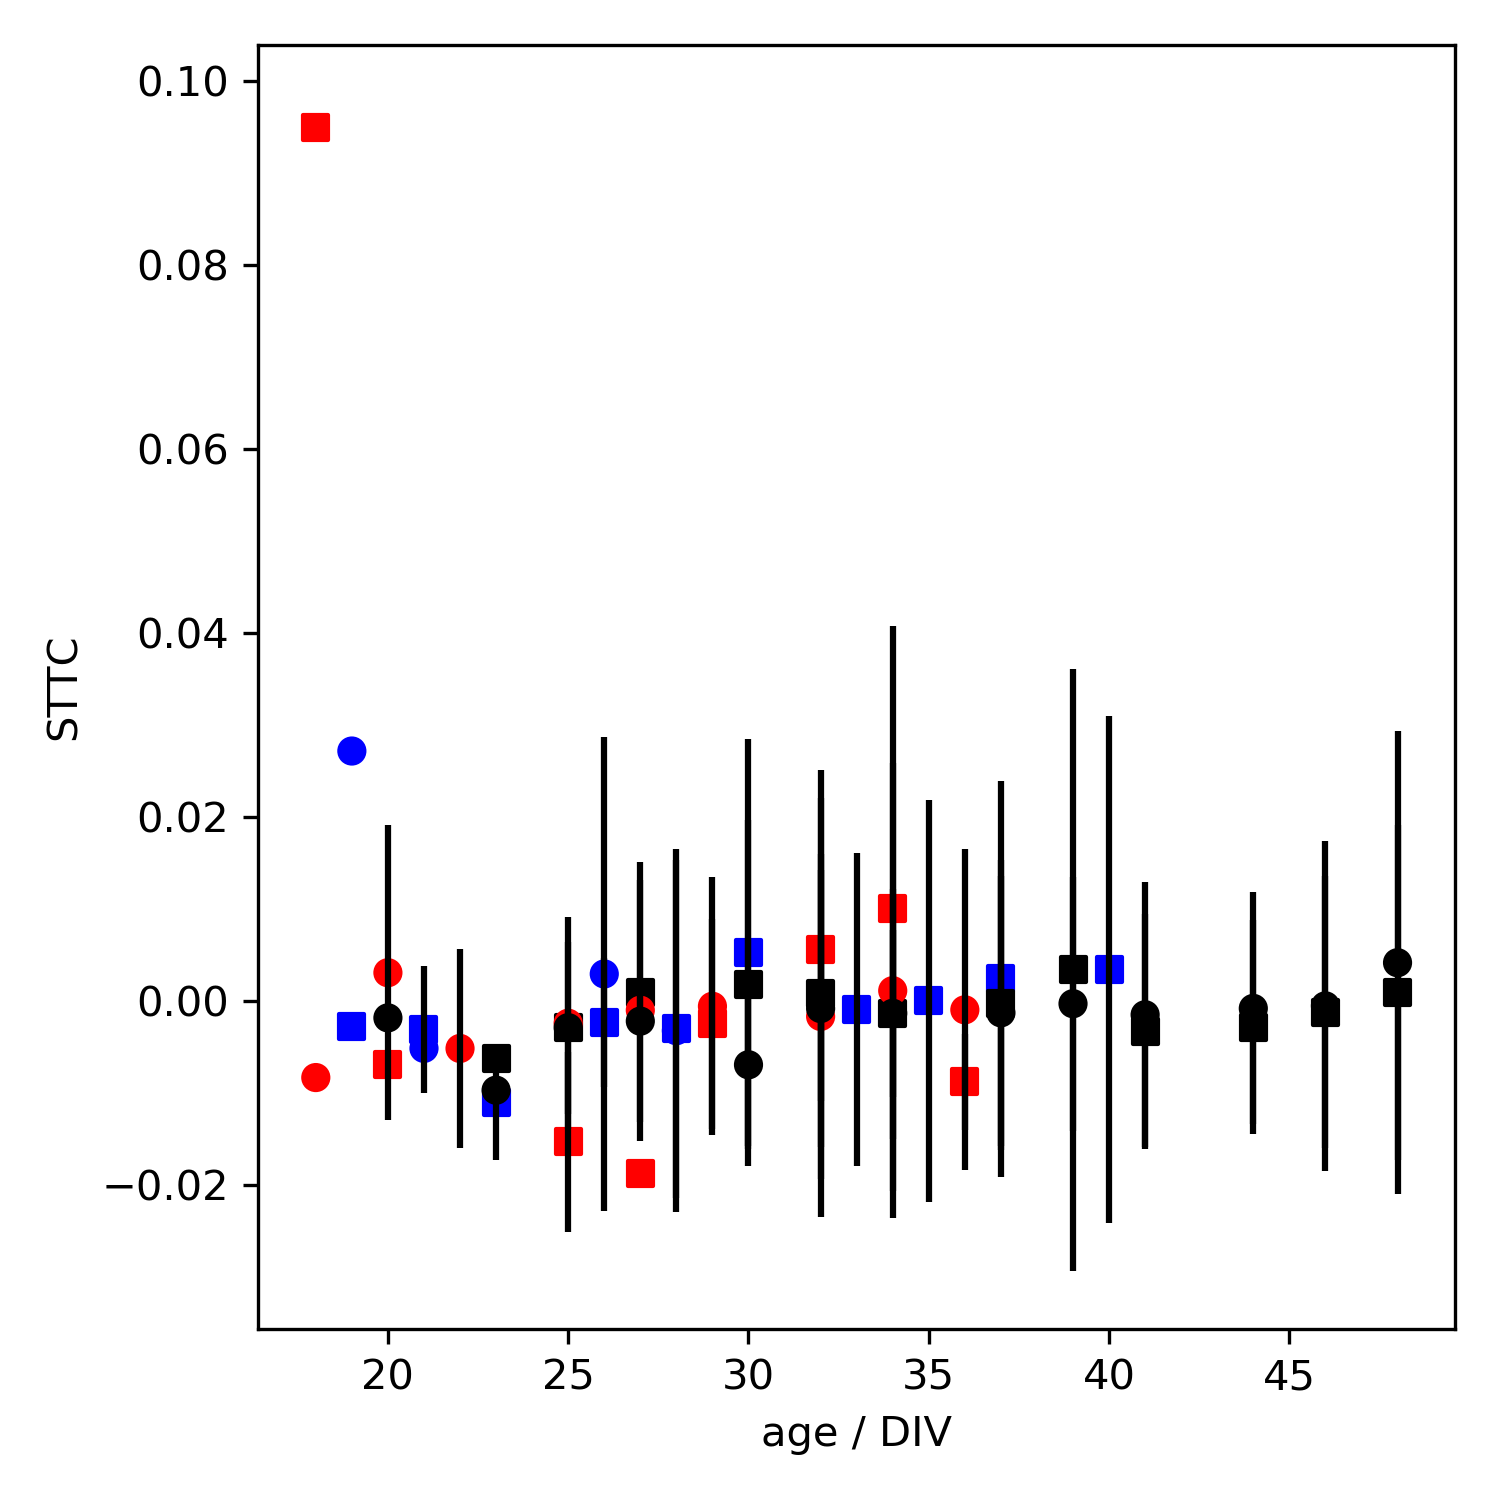
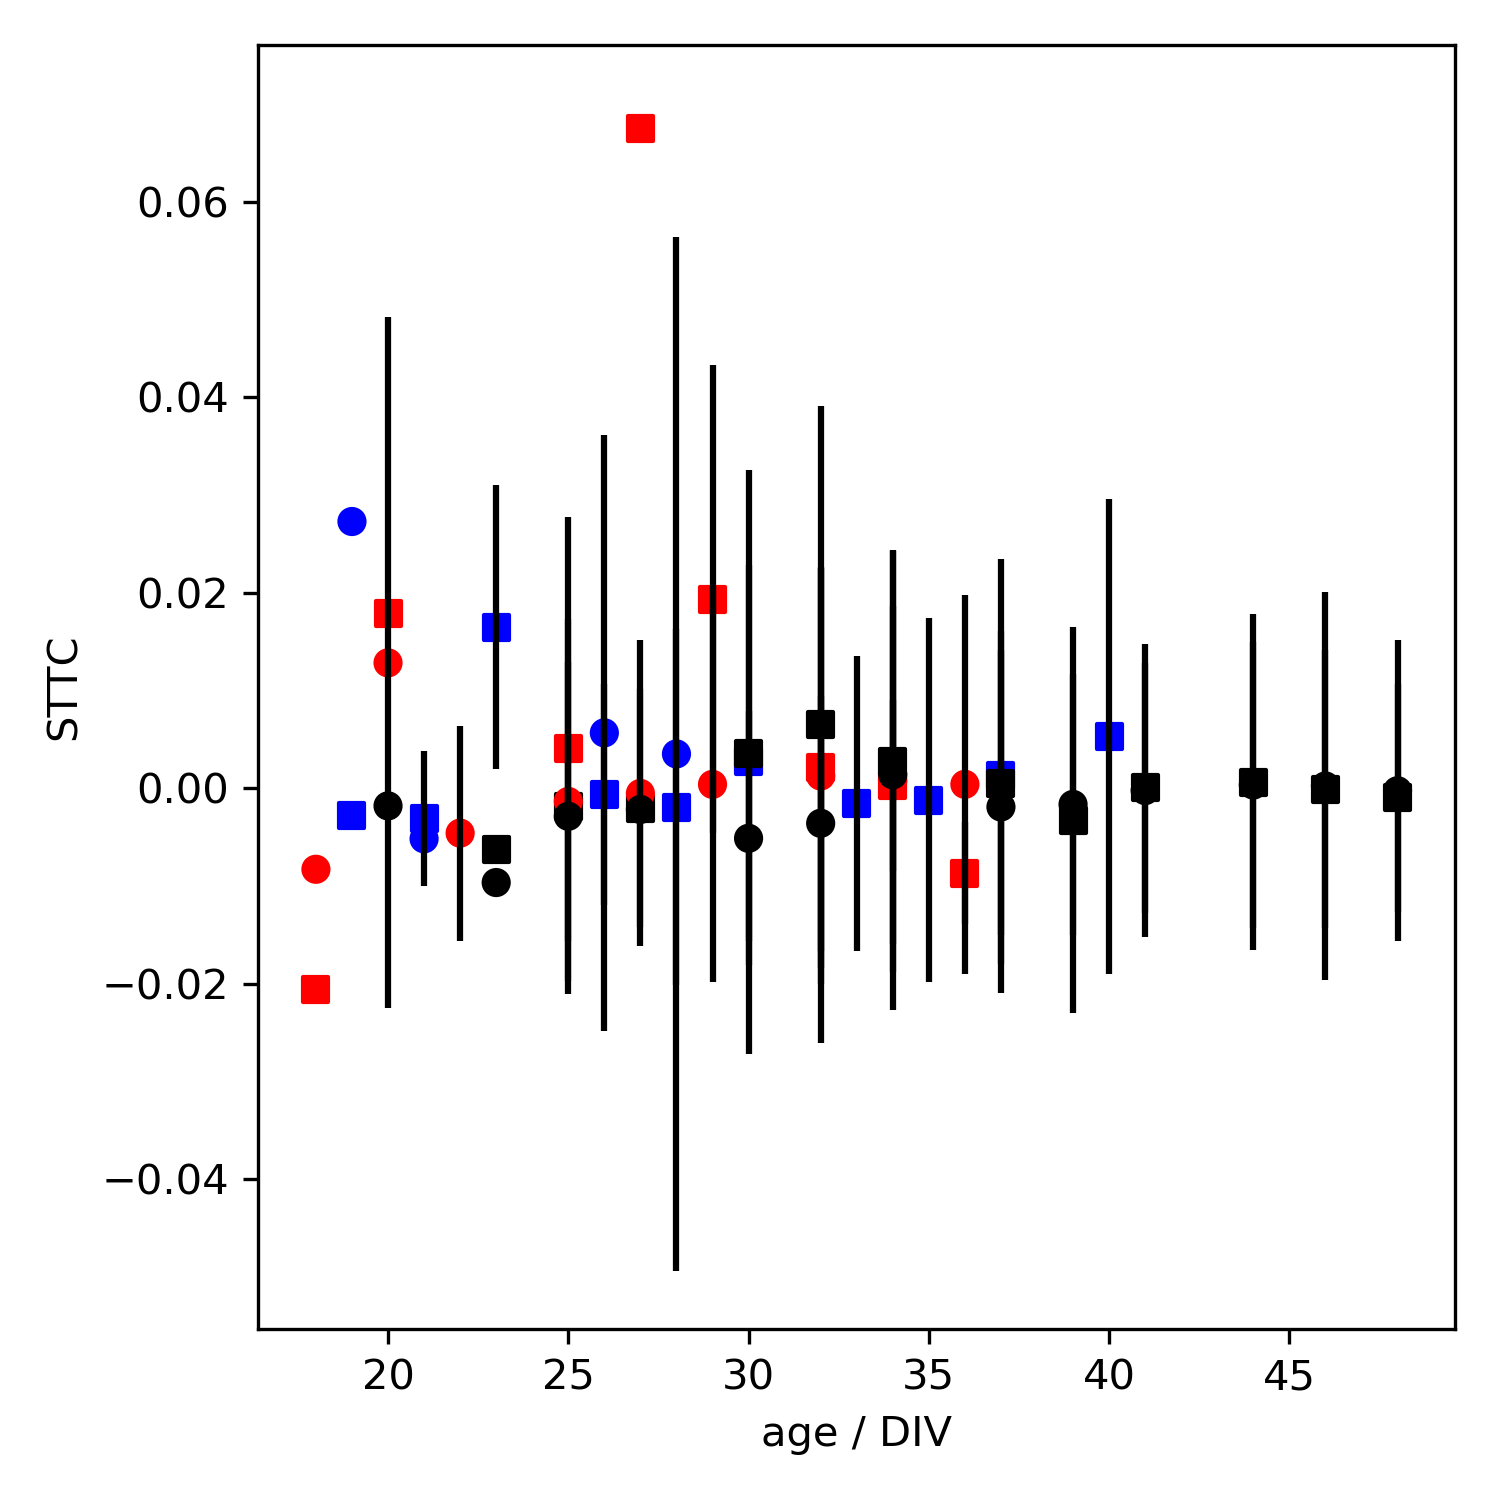
Add legends

diff --git a/scripts/compute_summary_statistics.py b/scripts/compute_summary_statistics.py
@@ -9,6 +9,7 @@ import h5fd.plot
 from h5fd.plot import RECORDING_ATTEMPTS
 import matplotlib
 import matplotlib.pyplot as plt
+from matplotlib.lines import Line2D
 import quantities as qt
 
 # adjust matplotlib parameters
@@ -89,12 +90,17 @@ for file in data_files:
         raise BaseException("Something is wrong.")
 
 # plot data
-# by replicate
 figure, axes = plt.subplots()
 axes.scatter(age_l["2539"], fr_l["2539"], c=colours["2539"], marker="s")
 axes.scatter(age_l["2540"], fr_l["2540"], c=colours["2540"], marker="o")
 axes.set_xlabel("age / DIV")
 axes.set_ylabel("firing rate / $s^{-1}$")
+handles = [Line2D([0], [0], marker="s", color="grey", lw=0, label="2539"),
+           Line2D([0], [0], marker="o", color="grey", lw=0, label="2540"),
+           Line2D([0], [0], color="r", lw=5, label="R1"),
+           Line2D([0], [0], color="b", lw=5, label="R2"),
+           Line2D([0], [0], color="k", lw=5, label="R3")]
+axes.legend(handles=handles)
 plt.savefig(FIGURE_FILE + "fr.png")
 plt.close()
 
@@ -107,8 +113,10 @@ plt.savefig(FIGURE_FILE + "n.png")
 plt.close()
 
 figure, axes = plt.subplots()
-axes.scatter(age_l["2539"], active_channels_l["2539"], c=colours["2539"], marker="s")
-axes.scatter(age_l["2540"], active_channels_l["2540"], c=colours["2540"], marker="o")
+axes.scatter(age_l["2539"], active_channels_l["2539"], c=colours["2539"],
+             marker="s")
+axes.scatter(age_l["2540"], active_channels_l["2540"], c=colours["2540"],
+             marker="o")
 axes.set_xlabel("age / DIV")
 axes.set_ylabel("active channels")
 plt.savefig(FIGURE_FILE + "channels.png")
@@ -123,10 +131,14 @@ plt.savefig(FIGURE_FILE + "recording_time.png")
 plt.close()
 
 figure, axes = plt.subplots()
-axes.scatter(age_l["2539"], fr_perchan_l["2539"], c=colours["2539"], marker="s")
-axes.scatter(age_l["2540"], fr_perchan_l["2540"], c=colours["2540"], marker="o")
-axes.errorbar(age_l["2539"], fr_perchan_l["2539"], fmt="none", yerr=fr_errors["2539"], ecolor="k")
-axes.errorbar(age_l["2540"], fr_perchan_l["2540"], fmt="none", yerr=fr_errors["2540"], ecolor="k")
+axes.scatter(age_l["2539"], fr_perchan_l["2539"], c=colours["2539"],
+             marker="s")
+axes.scatter(age_l["2540"], fr_perchan_l["2540"], c=colours["2540"],
+             marker="o")
+axes.errorbar(age_l["2539"], fr_perchan_l["2539"], fmt="none",
+              yerr=fr_errors["2539"], ecolor="k")
+axes.errorbar(age_l["2540"], fr_perchan_l["2540"], fmt="none",
+              yerr=fr_errors["2540"], ecolor="k")
 axes.set_xlabel("age / DIV")
 axes.set_ylabel("firing rate\nper channel / $s^{-1}$")
 plt.savefig(FIGURE_FILE + "fr_perchan.png")

diff --git a/scripts/correlate_pairwise.py b/scripts/correlate_pairwise.py
@@ -6,6 +6,7 @@ import numpy
 import os
 import matplotlib
 import matplotlib.pyplot as plt
+from matplotlib.lines import Line2D
 import quantities as qt
 from h5fd.plot import RECORDING_ATTEMPTS
 from tqdm import tqdm
@@ -96,13 +97,21 @@ figure, axes = plt.subplots()
 
 axes.set_xlabel("age / DIV")
 axes.set_ylabel("STTC")
-axes.scatter(age_l["2539"], corr_l["2539"], c=colours["2539"], marker="s")
-axes.scatter(age_l["2540"], corr_l["2540"], c=colours["2540"], marker="o")
+axes.scatter(age_l["2539"], corr_l["2539"], c=colours["2539"], marker="s",
+             label="2539")
+axes.scatter(age_l["2540"], corr_l["2540"], c=colours["2540"], marker="o",
+             label="2540")
 axes.errorbar(age_l["2539"], corr_l["2539"], fmt="none", yerr=err_l["2539"],
               ecolor="k")
 axes.errorbar(age_l["2540"], corr_l["2540"], fmt="none", yerr=err_l["2540"],
               ecolor="k")
-plt.tight_layout()
+handles = [Line2D([0], [0], marker="s", color="grey", lw=0, label="2539"),
+           Line2D([0], [0], marker="o", color="grey", lw=0, label="2540"),
+           Line2D([0], [0], color="r", lw=5, label="R1"),
+           Line2D([0], [0], color="b", lw=5, label="R2"),
+           Line2D([0], [0], color="k", lw=5, label="R3")]
+axes.legend(handles=handles)
+figure.tight_layout()
 plt.savefig(FIGURE_PATH)
 plt.close()
 
@@ -115,6 +124,6 @@ axes.errorbar(age_l["2539"], surr_corr_l["2539"], fmt="none",
               yerr=surr_err_l["2539"], ecolor="k")
 axes.errorbar(age_l["2540"], surr_corr_l["2540"], fmt="none",
               yerr=surr_err_l["2540"], ecolor="k")
-plt.tight_layout()
+figure.tight_layout()
 plt.savefig(CONTROL_FIGURE_PATH)
 plt.close()
